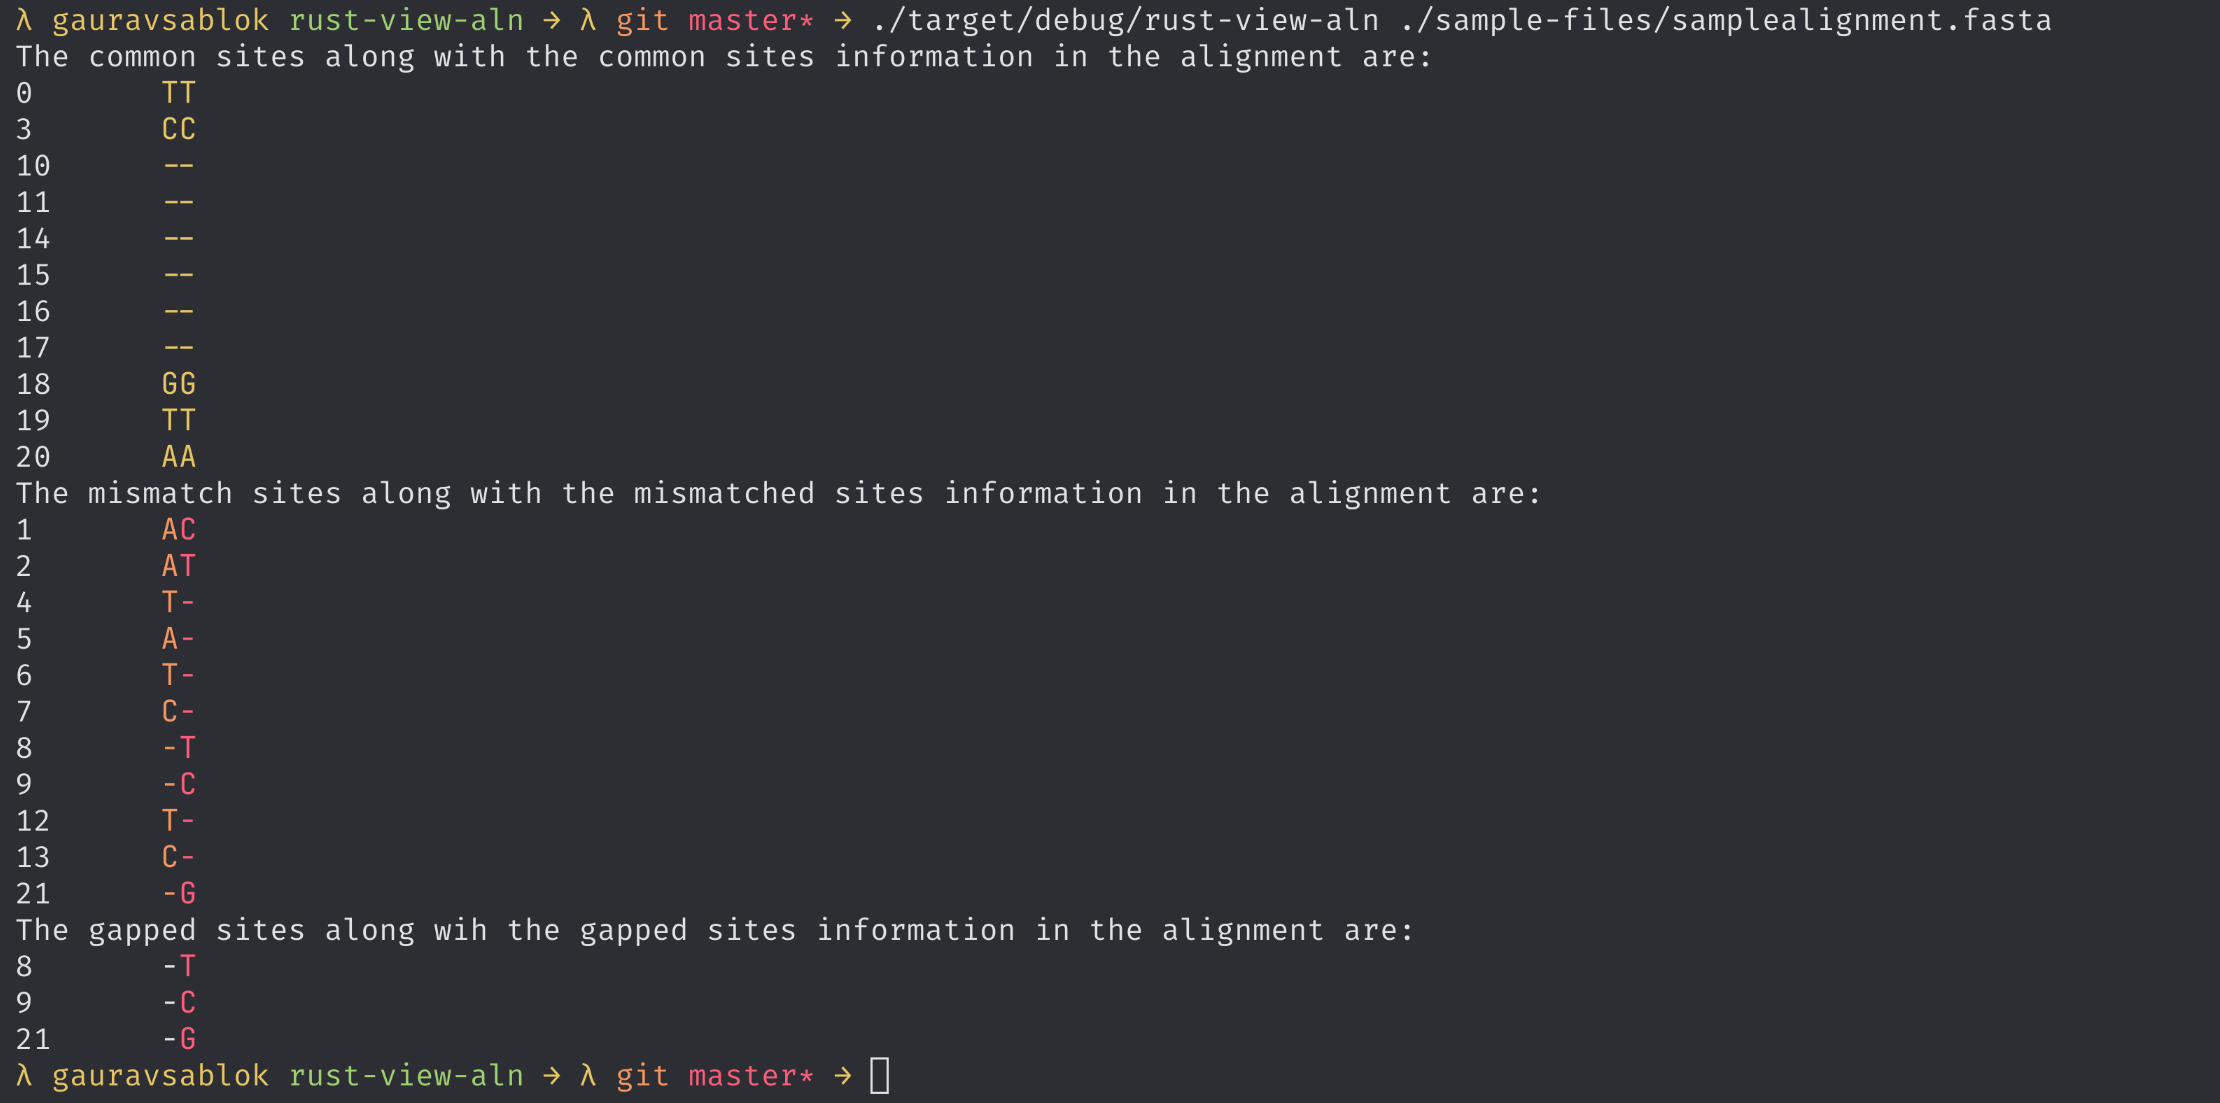
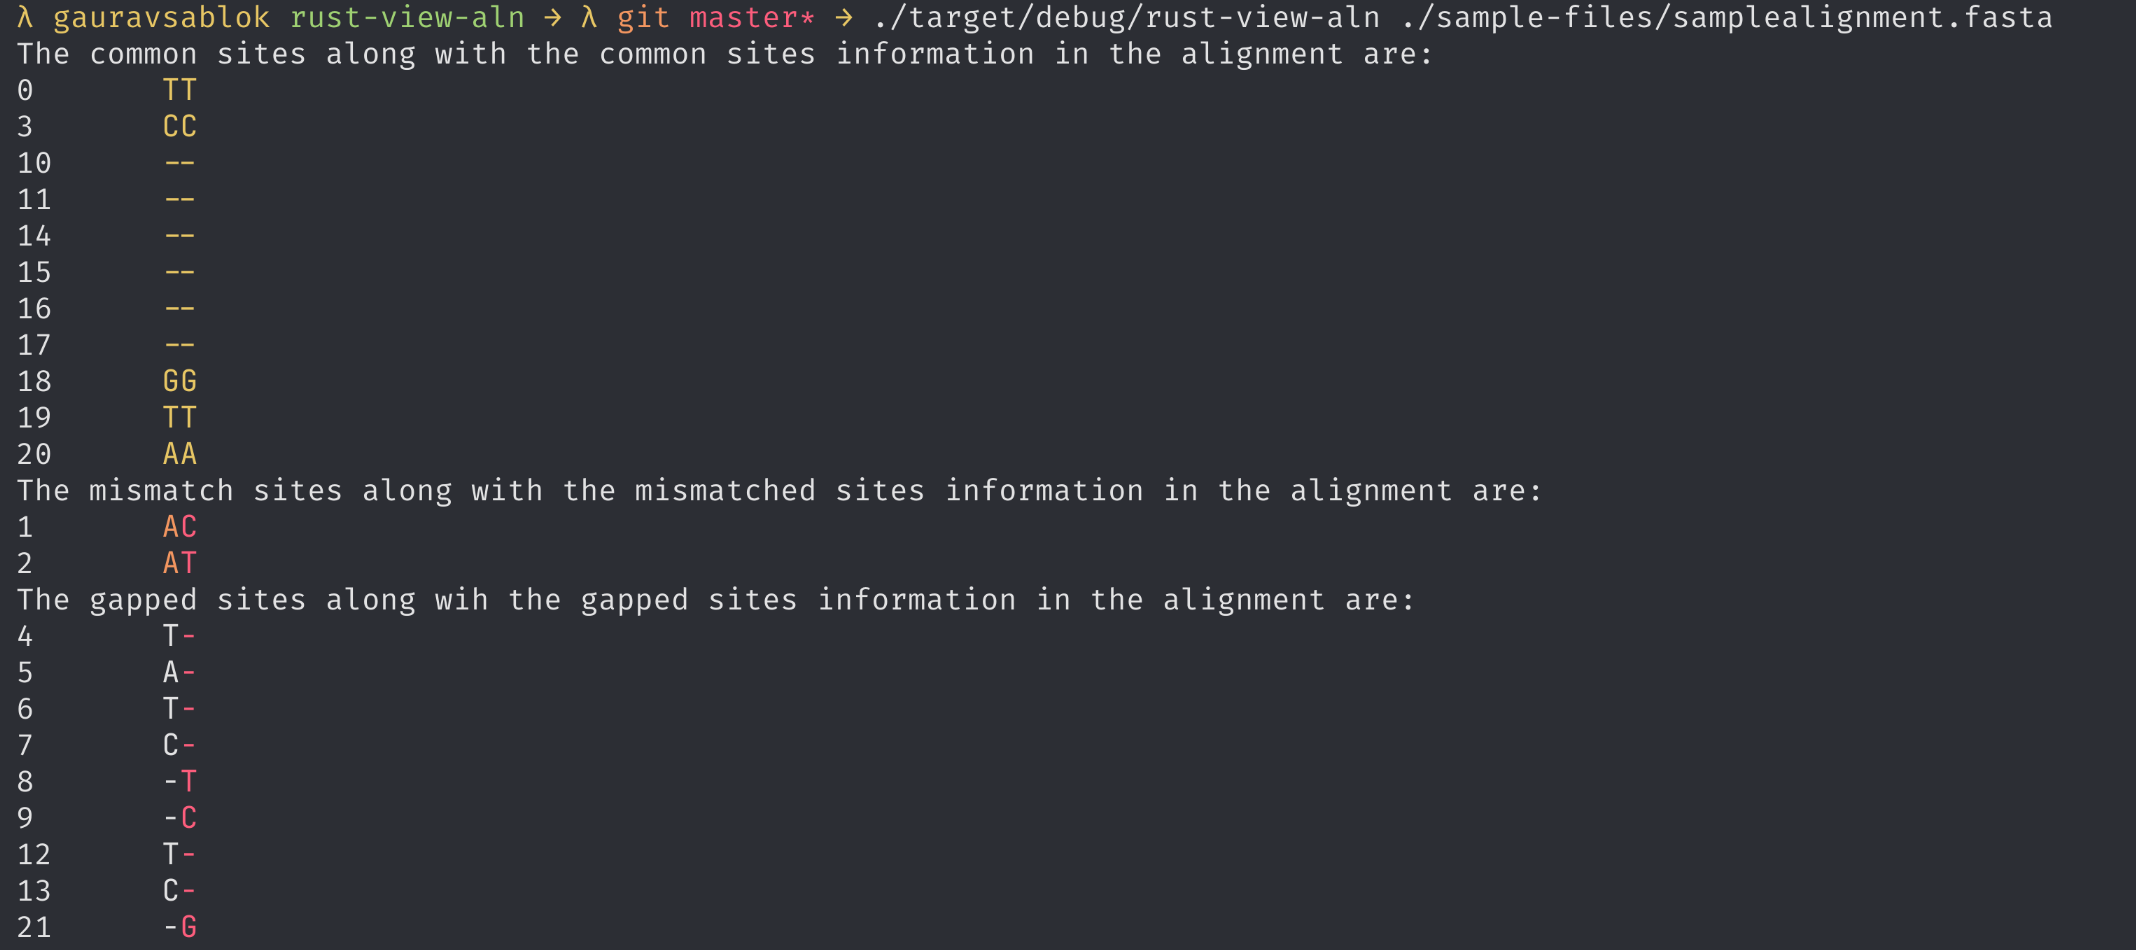
applicativesystem
finished the embedded code today and pushing it now as not internet during the day. Wrote a deep learning model after this. See the application of the embedded approach to create visual alignments with subsequent approach. final and binary release.

diff --git a/src/main.rs b/src/main.rs
@@ -115,7 +115,8 @@ fn alignment_embedded_mismatch(path: &str) {
   for i in 0..finalholdseq_multivector.len()-1{
     for j in 0..finalholdseq_multivector[0].len(){
       if finalholdseq_multivector[i][j] != 
-          finalholdseq_multivector[i+1][j] {
+          finalholdseq_multivector[i+1][j] && finalholdseq_multivector[i][j].to_string() != "-" 
+              && finalholdseq_multivector[i+1][j].to_string() != "-" {
            println!("{}\t{}{}", j, finalholdseq_multivector[i][j].to_string().blue().bold(), 
                                    finalholdseq_multivector[i+1][j].to_string().red().bold())
     } else {
@@ -171,7 +172,15 @@ fn alignment_embedded_gapped(path: &str) {
        finalholdseq_multivector[i][j].to_string() == "-" 
        && finalholdseq_multivector[i+1][j].to_string() == "G" ||
        finalholdseq_multivector[i][j].to_string() == "-" 
-       && finalholdseq_multivector[i+1][j].to_string() == "C" {
+       && finalholdseq_multivector[i+1][j].to_string() == "C" ||
+       finalholdseq_multivector[i][j].to_string() == "A" 
+       && finalholdseq_multivector[i+1][j].to_string() == "-" ||
+       finalholdseq_multivector[i][j].to_string() == "T" 
+       && finalholdseq_multivector[i+1][j].to_string() == "-" ||
+       finalholdseq_multivector[i][j].to_string() == "G" 
+       && finalholdseq_multivector[i+1][j].to_string() == "-" ||
+       finalholdseq_multivector[i][j].to_string() == "C" 
+       && finalholdseq_multivector[i+1][j].to_string() == "-" {
        println!("{}\t{}{}", j, finalholdseq_multivector[i][j].to_string().white().bold(), 
        finalholdseq_multivector[i+1][j].to_string().red().bold())
     } else {

diff --git a/README.md b/README.md
@@ -12,6 +12,18 @@
 cargo build
 
 ```
+```
+λ gauravsablok rust-view-aln → λ git master* → ./target/debug/rust-view-aln -h
+Usage: rust-view-aln <ALIGNMENT_ARG>
+
+Arguments:
+  <ALIGNMENT_ARG>  please provide the reads R1 file path
+
+Options:
+  -h, --help     Print help
+  -V, --version  Print version
+
+```
 
 ```
 ./target/debug/rust-view-aln ./sample-files/samplealignment.fasta
